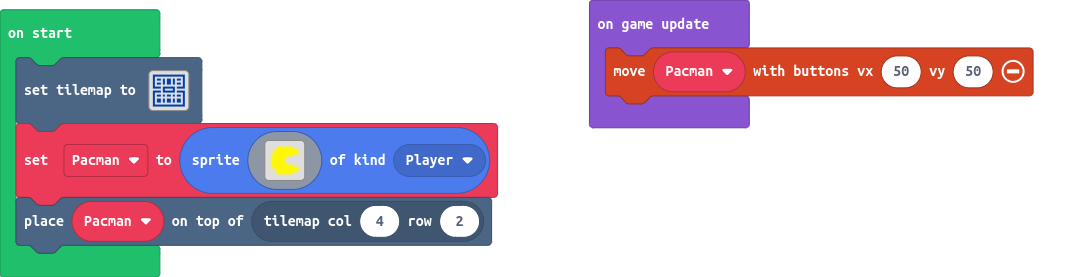
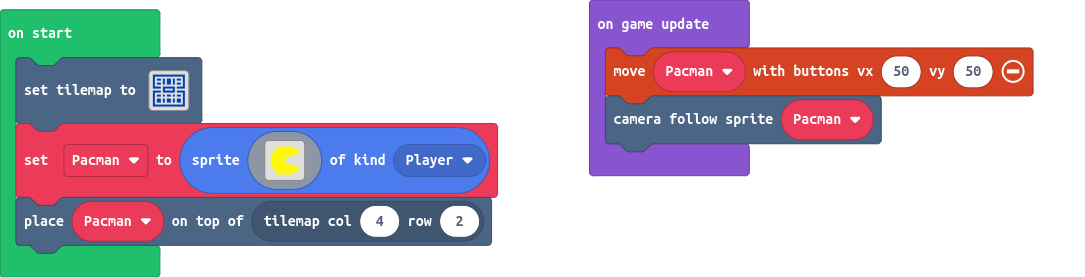
camera follow Pacman.

Changed region(s): [[0.5171, 0.3177, 0.8212, 0.6643]]

diff --git a/main.ts b/main.ts
@@ -82,4 +82,5 @@ let Pacman = sprites.create(img`
 tiles.placeOnTile(Pacman, tiles.getTileLocation(4, 2))
 game.onUpdate(function () {
     controller.moveSprite(Pacman, 50, 50)
+    scene.cameraFollowSprite(Pacman)
 })
